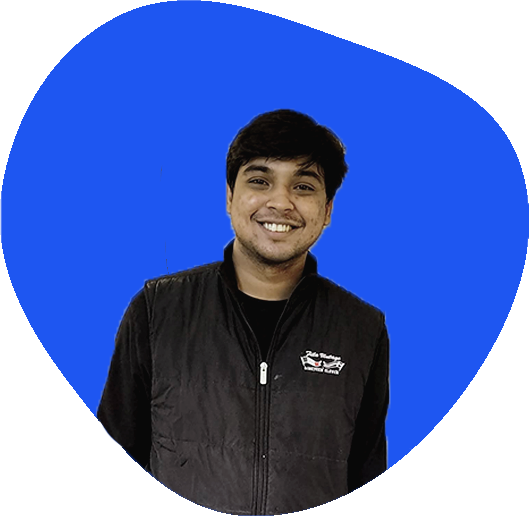
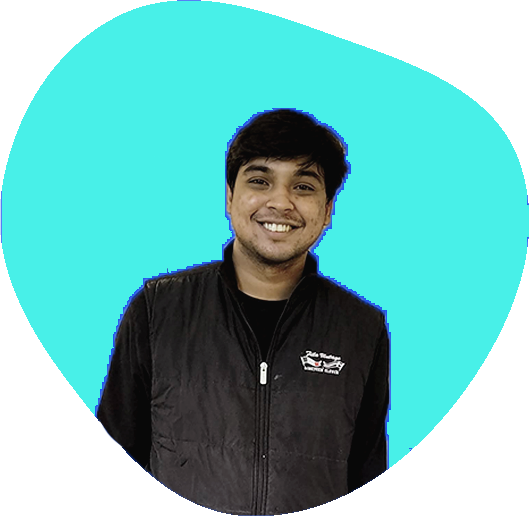
Colour Change

diff --git a/index.html b/index.html
@@ -91,24 +91,24 @@
                         <li>
                           <div class="timeline-content">
                             <a href="https://drive.google.com/file/d/1iQ37l3A-UElFwSs4qbAJ8IvhI4NNWRyw/view?usp=sharing" target="_blank">
-                                <h2 style="margin:2px; color: white;">Technical Intern</h2>
-                                <h4 style="margin:2px; color: white;">Thomson Reuters, Hyderabad, India</h4>
-                                <hr style="color: white;">
-                                <h5 style="margin:2px; color: white;">August 2020 - December 2020</h5>
+                                <h2 style="margin:2px; color: black;">Technical Intern</h2>
+                                <h4 style="margin:2px; color: black;">Thomson Reuters, Hyderabad, India</h4>
+                                <hr style="color:black;">
+                                <h5 style="margin:2px; color: black;">August 2020 - December 2020</h5>
                                 <p class="description__left">
                                     Successfully developed full-stack of a web portal used to store, access and distribute project files to users<br>
                                     Also implemented a time-series forecasting model to predict expenses of various accounts in the organization. Achieved an avg accuracy of 94.5% on overall expenses.
                                 </p>
-                                <p style="font-size:8px; margin-bottom: 0px; margin-top: 10px; color: rgb(231, 229, 229); text-align: center; margin-bottom: 0px;">Click for complete report</p>
+                                <p style="font-size:8px; margin-bottom: 0px; margin-top: 10px; color: gray; text-align: center; margin-bottom: 0px;">Click for complete report</p>
                             </a>
                           </div>
                         </li>
                         <li>
                             <div class="timeline-content">
-                                <h2 style="margin:2px; color: white;">SDE Intern</h2>
-                                <h4 style="margin:2px; color: white;">Rapha Medic Pvt. Ltd., Hyderabad, India</h4>
-                                <hr style="color: white;">
-                                <h5 style="margin:2px; color: white;">June 2020 - July 2020</h5>
+                                <h2 style="margin:2px; color: black;">SDE Intern</h2>
+                                <h4 style="margin:2px; color: black;">Rapha Medic Pvt. Ltd., Hyderabad, India</h4>
+                                <hr style="color: black;">
+                                <h5 style="margin:2px; color: black;">June 2020 - July 2020</h5>
                                 <p class="description__left">
                                     Developed full-stack of a native-mobile application using ionic which contained various features related to medical needs of customers. Programmed additional features like standalone chat application, health tracker, etc.
                                 </p>
@@ -116,10 +116,10 @@
                         </li>
                         <li>
                             <div class="timeline-content">
-                                <h2 style="margin:2px; color: white;">Summer Intern</h2>
-                                <h4 style="margin:2px; color: white;">Rourkela Steel Plant, SAIL, India</h4>
-                                <hr style="color: white;">
-                                <h5 style="margin:2px; color: white;">May 2018 - July 2018</h5>
+                                <h2 style="margin:2px; color: black;">Summer Intern</h2>
+                                <h4 style="margin:2px; color: black;">Rourkela Steel Plant, SAIL, India</h4>
+                                <hr style="color: black;">
+                                <h5 style="margin:2px; color: black;">May 2018 - July 2018</h5>
                                 <p class="description__left">
                                     Worked in power distribution department to use SCADA system to collect data and perform a data-driven analysis of various performance indices and safety limits of power distribution across various divisions of the plant and perform relevant control.
                                 </p>

diff --git a/assets/css/styles.css b/assets/css/styles.css
@@ -8,8 +8,8 @@
 
 /*===== Colores =====*/
 :root{
-  --first-color: #1e56f1;
-  --second-color: #0b1b24;
+  --first-color: #50cedf;
+  --second-color: #194761;
 }
 
 /*===== Fuente y tipografia =====*/
@@ -274,7 +274,7 @@ img{
 .description__left {
   text-align: left;
   font-size: 8px;
-  color:white;
+  color:black;
 }
 
 .timeline ul {
@@ -283,13 +283,14 @@ img{
 .timeline ul li {
   padding: 20px;
   background-color: var(--first-color);
-  color: white;
+  border-style: solid;
+  color: black;
   border-radius: 10px;
   margin-bottom: 20px;
 }
 .timeline ul li:last-child {
   margin-bottom: 0;
-}
+} 
 .timeline-content h1 {
   font-weight: 500;
   font-size: 25px;
